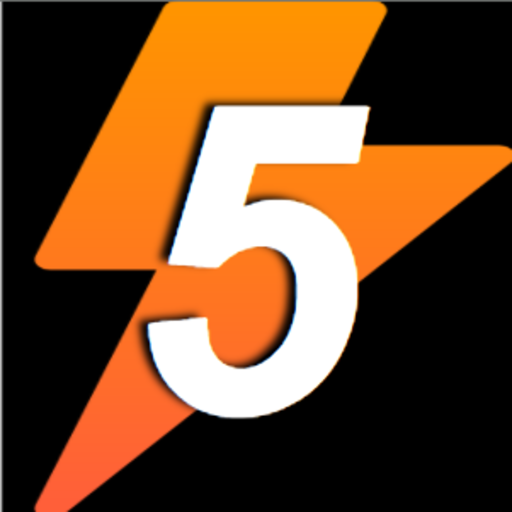
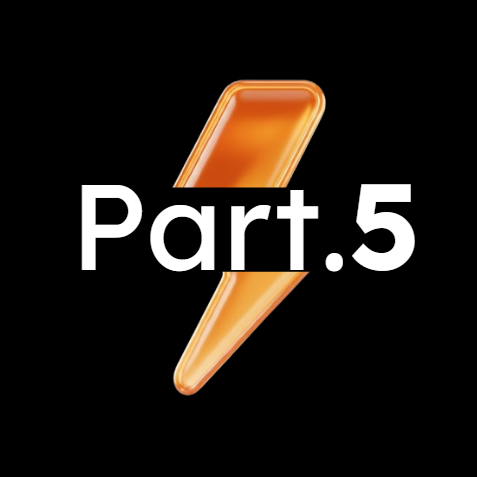
앱 로고 아이콘 수정정

diff --git a/app.config.ts b/app.config.ts
@@ -19,7 +19,7 @@ const config: ExpoConfig = {
   },
   android: {
     package: 'com.thejsw.toeicflashcardvoca',
-    versionCode: 13,
+    versionCode: 14,
     adaptiveIcon: {
       foregroundImage: './assets/images/Flash5Icon.png',
       backgroundColor: '#ffffff',